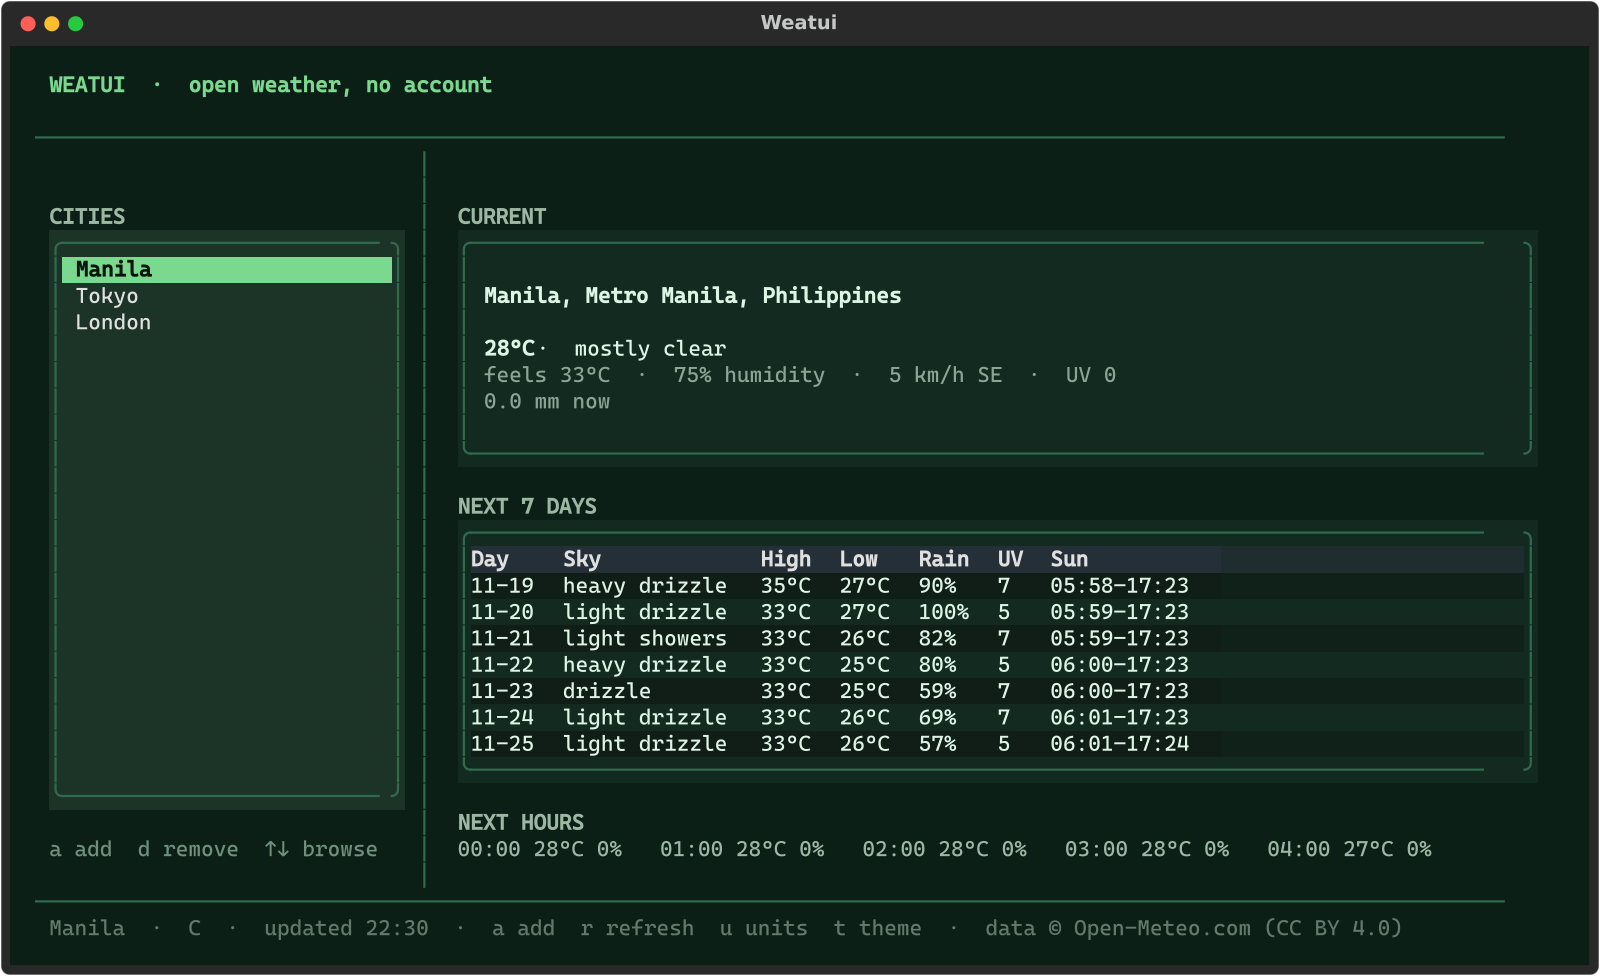
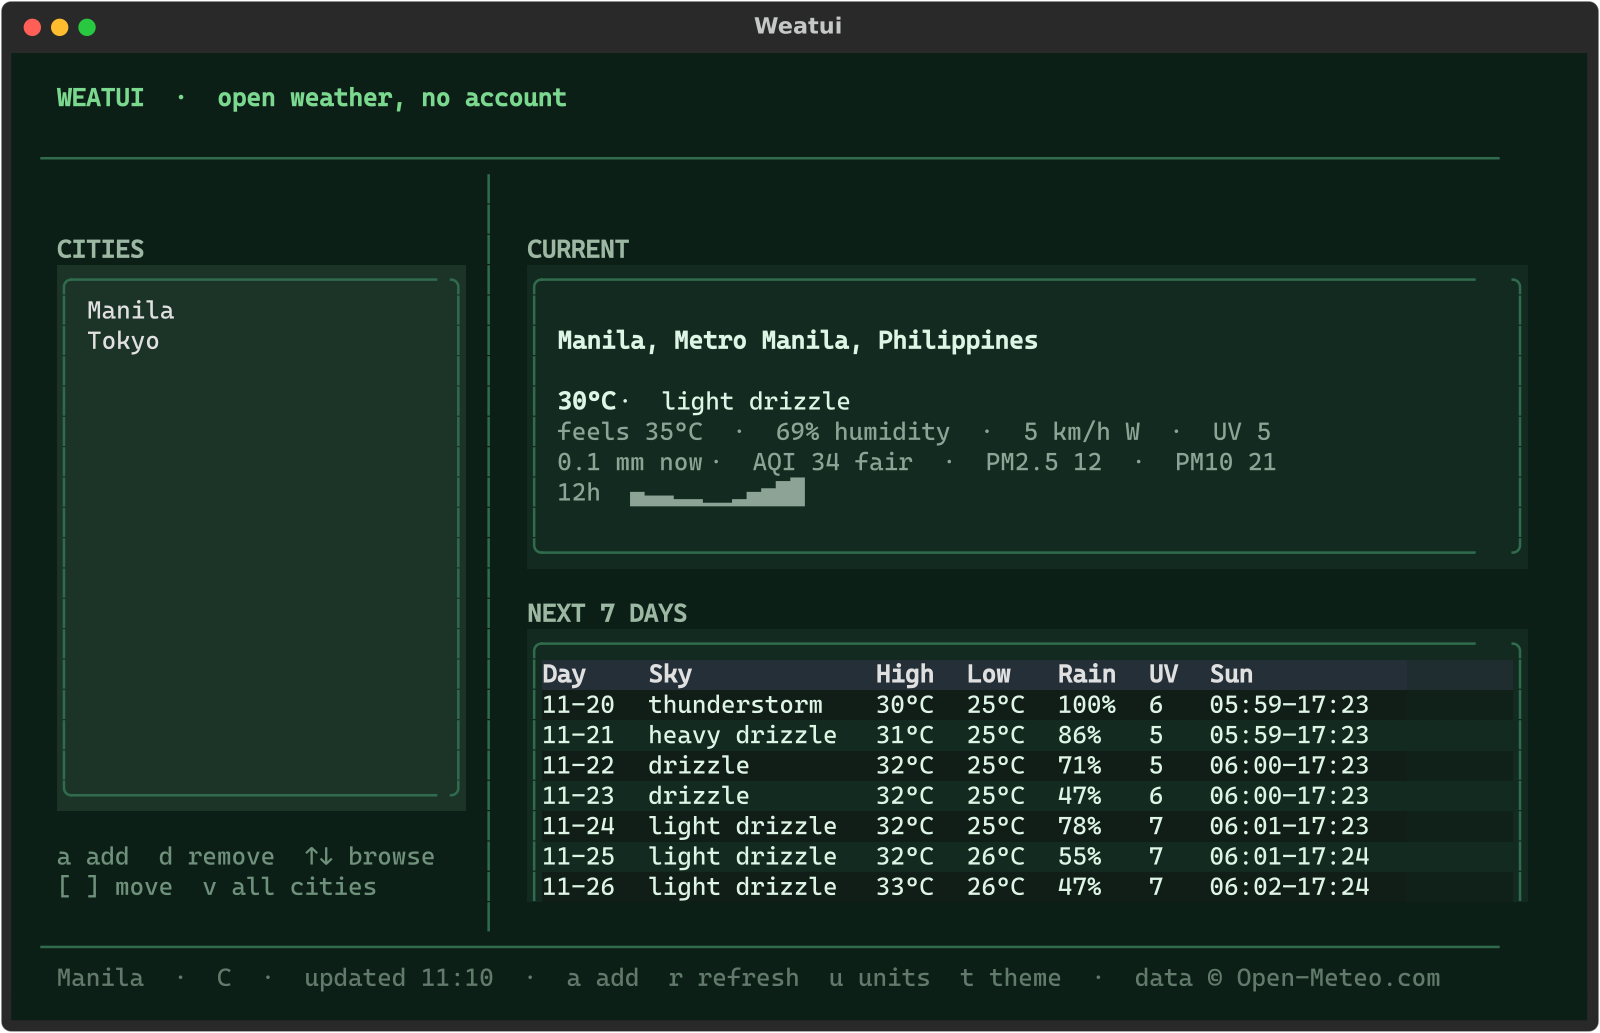
docs: refresh app screenshot for air quality and trend

diff --git a/index.html b/index.html
@@ -32,7 +32,7 @@ footer{display:flex;justify-content:space-between;gap:18px;margin-top:34px;paddi
 <div class="buttons"><a class="btn primary" href="https://github.com/Mark44928/Weatui">Install &amp; source</a><a class="btn" href="#install">Install</a><a class="btn" href="https://github.com/Mark44928/Weatui/releases">Releases</a></div>
 <pre id="install">pipx install git+https://github.com/Mark44928/Weatui.git
 weatui</pre>
-<img class="shot" src="docs/app.png" alt="Weatui showing Manila current conditions and the next seven days">
+<img class="shot" src="docs/app.png" alt="Weatui showing Manila conditions with air quality, a 12-hour trend and the next seven days">
 <section class="k">What's inside</section>
 <ul class="grid"><li><b>Saved cities</b>reorder without editing JSON</li><li><b>Seven days</b>with rain, UV and sun times</li><li><b>Air quality</b>AQI, PM2.5 and PM10</li><li><b>City picker</b>choose the right match</li><li><b>All cities</b>side-by-side compare</li><li><b>12h trend</b>temperature sparkline</li><li><b>No account</b>Open-Meteo, no API key</li></ul>
 <p style="color:var(--muted);font-size:.8rem">Weather and geocoding data © <a href="https://open-meteo.com/">Open-Meteo.com</a> (CC BY 4.0). Weatui is not affiliated with Open-Meteo.</p>
